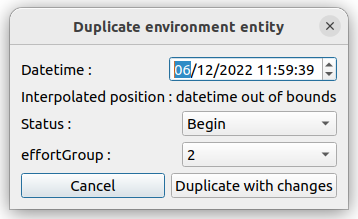
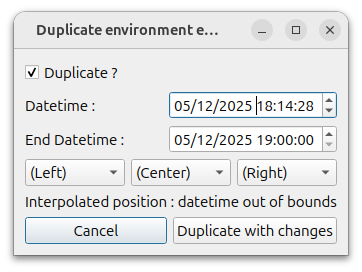
doc: update doc

diff --git a/doc/source/interface.rst b/doc/source/interface.rst
@@ -18,6 +18,9 @@ Most Sammo-boat tools are available in the plugin toolbar.
 .. |settings| image:: ../../images/settings.png
   :height: 18
 
+.. |help| image:: ../../images/help.png
+  :height: 18
+
 .. |save| image:: ../../images/pen.png
   :height: 18
 
@@ -70,7 +73,18 @@ Especially for `Transect` table, it is possible to import a linear layer
 `Transect` table (transect,strateType,subRegion,length). Transect entity reference
 will be available in the `Environment` table.
 
-3 - |save| Validation button
+3 - |help| Documentation button
+~~~~~~~~~~~~~~~~~~~~~~~~~~~~~~~
+
+.. image:: images/validate_button.png
+   :align: center
+   :width: 400
+
+|
+
+`Documentation` button opens the Sammo-boat documentation.
+
+4 - |save| Validation button
 ~~~~~~~~~~~~~~~~~~~~~~~~~~~~
 
 
@@ -95,7 +109,7 @@ At the end, there is also two filters that can be activated to filter
 environment/sighting/follower tables. It can be useful to do the entity check.
 
 
-4 - |export| Export button
+5 - |export| Export button
 ~~~~~~~~~~~~~~~~~~~~~~~~~~
 
 This button is used to export session into csv or gpkg files.
@@ -106,7 +120,10 @@ This button is used to export session into csv or gpkg files.
 
 User have to mention the export folder and the driver.
 
-5 - |merge| Merge button
+A warning message will be displayed if an effort has no end datetime in the
+environment layer.
+
+6 - |merge| Merge button
 ~~~~~~~~~~~~~~~~~~~~~~~~
 
 This button is used to merge session. It will open the following dialog :
@@ -122,7 +139,10 @@ will be also decimated to keep only one record per minutes.
 
 User can use the gps checkboxes to choose which session gps layer will be kept.
 
-6 - |environment| Environment button
+A warning message will be displayed if an effort has no end datetime in the
+environment layer of one session.
+
+7 - |environment| Environment button
 ~~~~~~~~~~~~~~~~~~~~~~~~~~~~~~~~~~~~
 
 This button add a new environment record in the environment table. The focus is
@@ -130,7 +150,7 @@ set on the table (11) in order that the user can fulfill the attributes
 (cf :ref:`environmenttable`). This action can also be done by using the ``Shift+e``
 shortcut.
 
-7 - |sighting| Sighting button
+8 - |sighting| Sighting button
 ~~~~~~~~~~~~~~~~~~~~~~~~~~~~~~
 
 This button add a new sighting record in the sighting table. The focus is
@@ -138,7 +158,7 @@ set on the table (12) in order that the user can fulfill the attributes
 (cf :ref:`sightingtable`). This action can also be done by using the ``Space``
 shortcut.
 
-8 - |follower| Follower button
+9 - |follower| Follower button
 ~~~~~~~~~~~~~~~~~~~~~~~~~~~~~~
 
 This button is used to handle follower entities. The main action is used to add
@@ -160,7 +180,7 @@ records before the validation.
 Status Panel
 ------------
 
-9 - GPS button
+10 - GPS button
 ~~~~~~~~~~~~~~
 
 .. |gps_ok| image:: ../../images/gps_ok.png
@@ -175,7 +195,7 @@ box will appear to warn the user. Otherwise |gps_ko| will turn into |gps_ok|.
 The GPS infos are displayed aside the button. Futhermore, a new gps entity is
 created per minut.
 
-10 - Microphone button
+11 - Microphone button
 ~~~~~~~~~~~~~~~~~~~~~~
 
 .. |record_ok| image:: ../../images/record_ok.png
@@ -191,6 +211,17 @@ Each entity will be attached with its sound record. By default the record lasts
 one minute. If user wants to short it, he can click on the |record_ok| button
 to turn it into |record_ko|.
 
+12 - Observer selection
+~~~~~~~~~~~~~~~~~~~~~~~
+
+Three combo box are available to select which observer are present on left, center
+and right side. The available value are generated from the observer table.
+
+When the operator adds a new effort entity in the environment layer, the left/center/right
+fields will be populated from the current values in these combo boxes.
+
+If needed, these values can be modified by using the "Duplicate or change current feature"
+action.
 
 Tables and map
 --------------
@@ -207,11 +238,8 @@ Environment entity describes environmental variables during the session.
 To keep trace of different routes, according their ``routeType`` attribute.
 A status will be assigned automatically to each entity.
 
-The first status will be ``Begin``, then ``Add`` status will be created for the
-next entities until user changes the ``routeType`` attribute. User creates
-``Add`` entities if the environmental variables change during the route. When the
-user changes the ``routeType`` attributes, the status attribute will be updated to
-``Begin``. Entities with ``End`` status will be created only on export.
+Only the ``Begin`` status entity will be created by the operator. Entities with
+``End`` status will be created only on export.
 
 .. _sightingtable:
 

diff --git a/doc/source/action.rst b/doc/source/action.rst
@@ -42,11 +42,11 @@ For the environment table, it opens the following dialog:
 
 |
 
-User can modify the datetime of the duplicat. From this datetime, the entity
-geometry will be determined by interpolating the closest gps points. Futhermore,
-user can modify the status and the effortGroup attributes
-(cf. :ref:`environmenttable`) in order to fix missing environment entities. Other
-attributes can be modified in the environment table.
+User can modify the start and end datetime of the duplicat. From the start datetime,
+the entity geometry will be determined by interpolating the closest gps points.
+Futhermore, user can modify the observers fields (cf. :ref:`environmenttable`)
+in order to fix missing environment entities. Other attributes can be modified
+in the environment table.
 
 For sighting and follower tables, it opens the following dialog:
 
